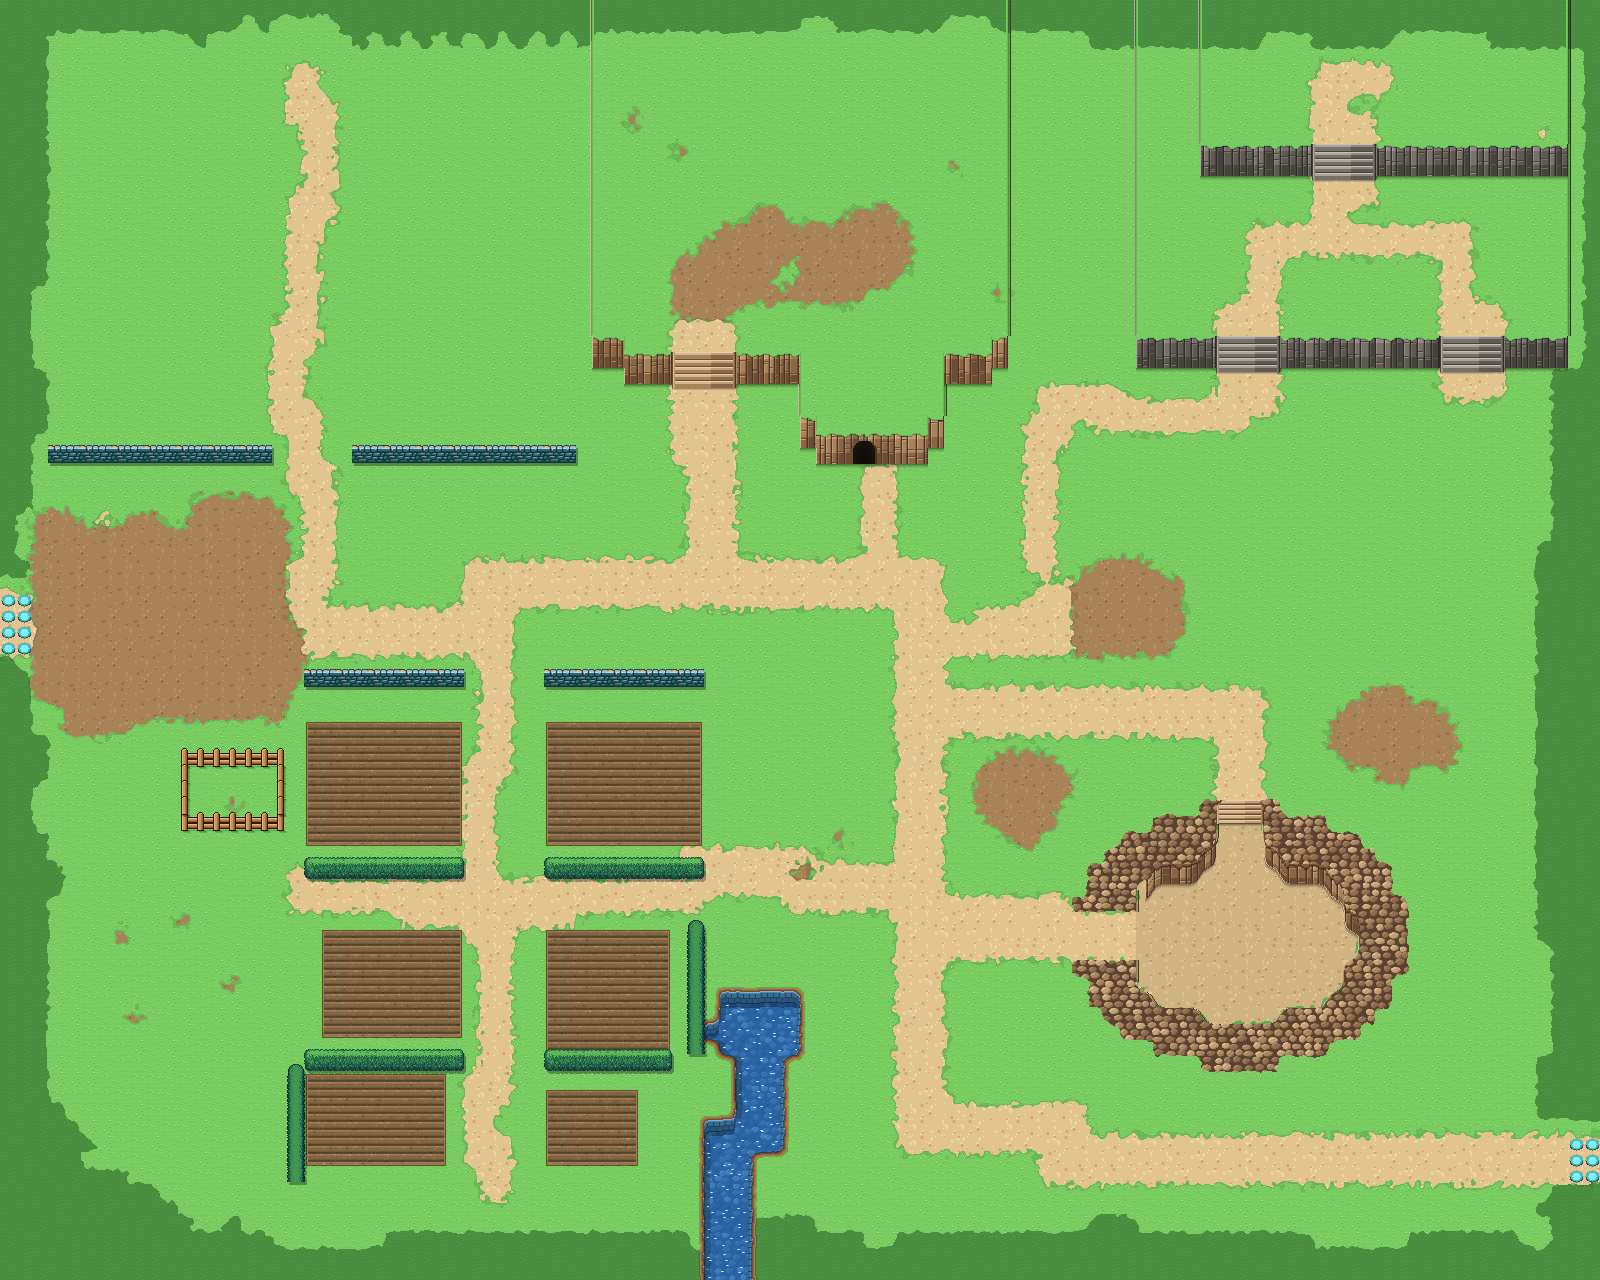
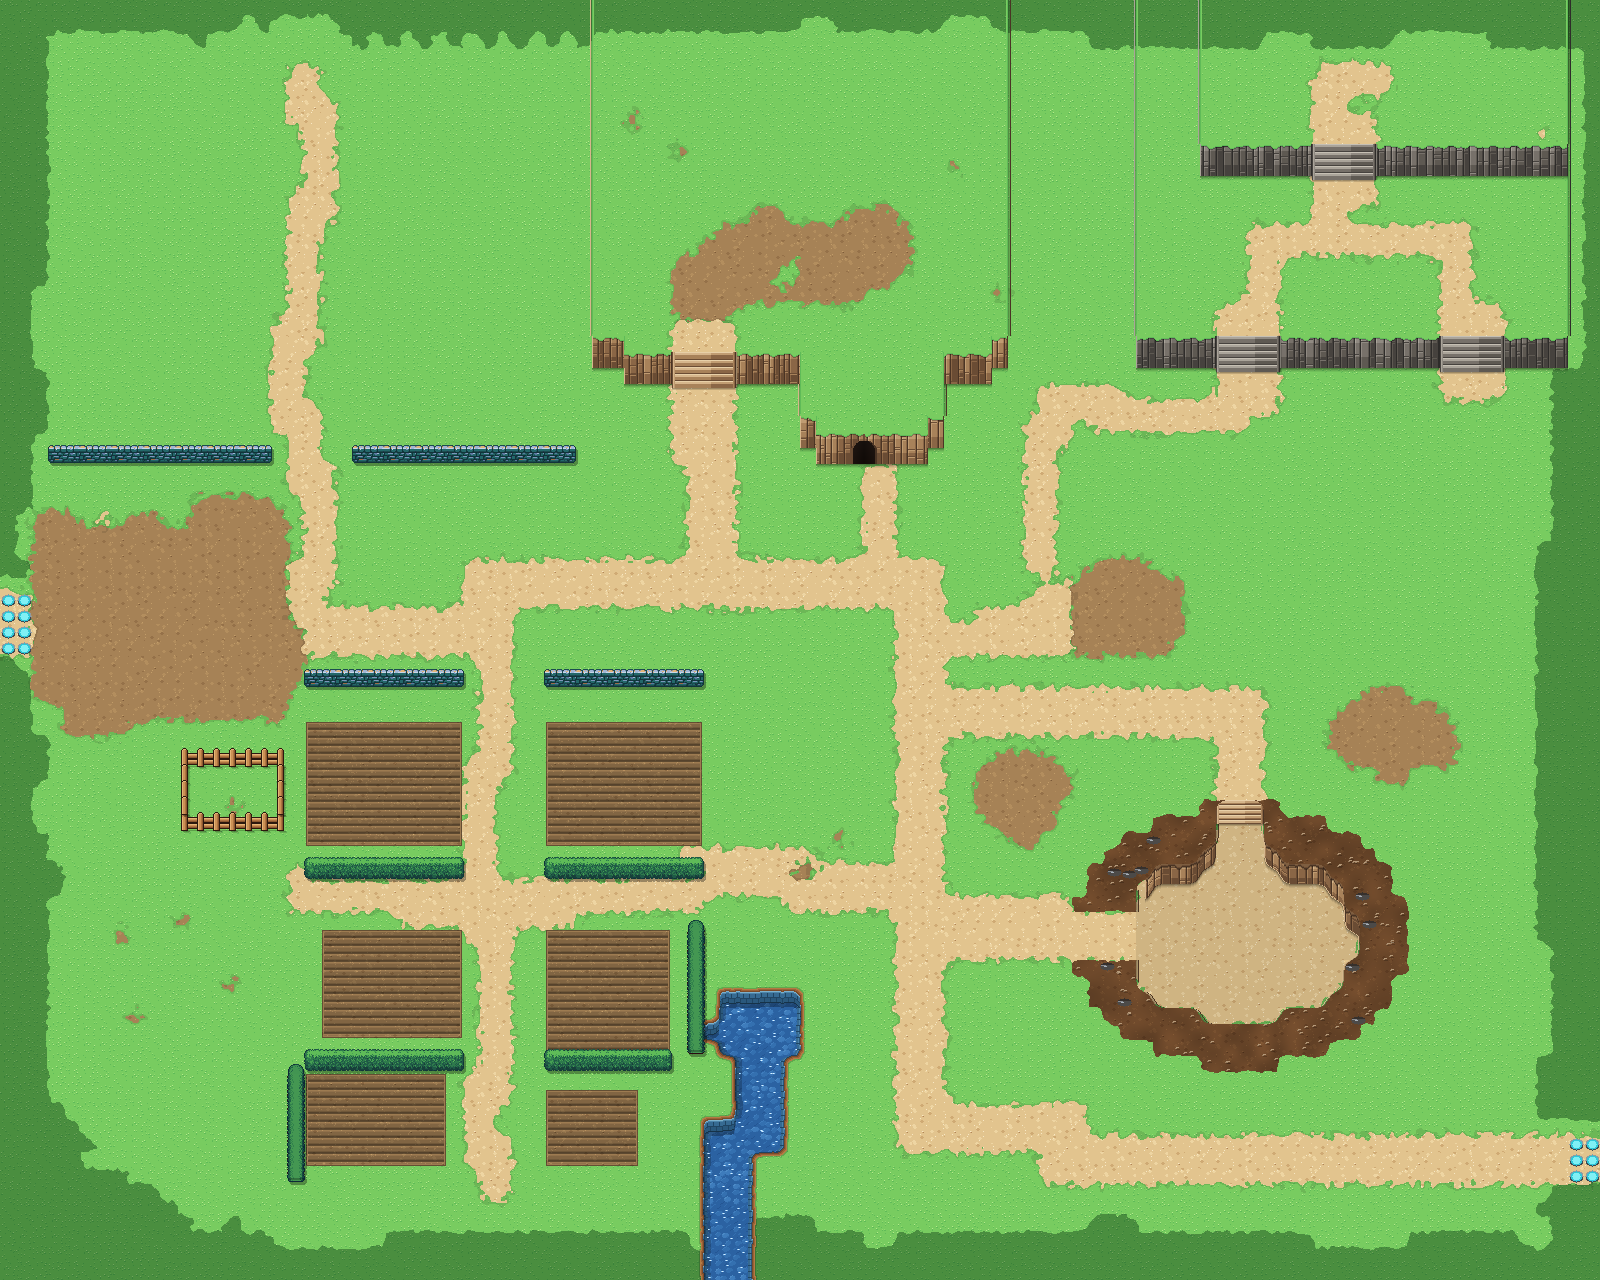
Karte 23: Hecken- und Mauerenden sauber abgeschlossen, Senkenrand als Schlamm
Claude-Session: https://claude.ai/code/session_01SaoYHKhnro4LFcPJqjaPsq

Changed region(s): [[0.6562, 0.625, 0.875, 0.8438]]

diff --git a/tools/karte23_bauen.py b/tools/karte23_bauen.py
@@ -172,6 +172,47 @@ def hecken(img, lay, cls):
             w = min(mauer.width, X1 - x)
             lage.alpha_composite(mauer.crop((0, 0, w, mauer.height)), (x, Y))
             x += w
+    # Enden sauber abschliessen: Schnittkanten bekommen die dunkle Kontur des Sprites, Ecken abgerundet
+    L = np.array(lage)
+    def kante_schliessen(x0_, x1_, y0_, y1_, seite):
+        sub = L[y0_:y1_, x0_:x1_]
+        al_ = sub[..., 3] > 0
+        if not al_.any():
+            return
+        hell = sub[..., :3].astype(int).sum(-1)
+        dunkel = sub[al_][:, :3][np.argmin(hell[al_])]
+        if seite in ('l', 'r'):
+            cols_ = [0, 1] if seite == 'l' else [sub.shape[1] - 1, sub.shape[1] - 2]
+            ys_ = np.nonzero(al_[:, cols_[0]])[0]
+            if not len(ys_):
+                return
+            ya, yb = ys_.min(), ys_.max()
+            for yy_ in (ya, ya + 1, yb - 1, yb):                      # runde Ecken
+                sub[yy_, cols_[0], 3] = 0
+            sub[ya, cols_[1], 3] = 0; sub[yb, cols_[1], 3] = 0
+            for yy_ in range(ya + 2, yb - 1):
+                sub[yy_, cols_[0], :3] = dunkel
+            for yy_ in (ya + 1, yb - 1):
+                sub[yy_, cols_[1], :3] = dunkel
+        else:                                                         # unten
+            xs_ = np.nonzero(al_[-1])[0] if al_[-1].any() else np.nonzero(al_.any(0))[0]
+            xa, xb = xs_.min(), xs_.max()
+            yb = sub.shape[0] - 1
+            for xx_ in (xa, xa + 1, xb - 1, xb):
+                sub[yb, xx_, 3] = 0
+            sub[yb - 1, xa, 3] = 0; sub[yb - 1, xb, 3] = 0
+            sub[yb, xa + 2:xb - 1, :3] = dunkel
+            sub[yb - 1, xa + 1, :3] = dunkel; sub[yb - 1, xb - 1, :3] = dunkel
+            sub[yb - 3:yb - 1, xa + 2:xb - 1, :3] = (sub[yb - 3:yb - 1, xa + 2:xb - 1, :3] * 0.75).astype(np.uint8)
+    for (x0, y0, x1, y1) in lay['maeuerchen']:
+        Y = (y0 + 1) * T - mauer.height - 1
+        kante_schliessen(x0 * T, x0 * T + 4, Y, Y + mauer.height, 'l')
+        kante_schliessen((x1 + 1) * T - 4, (x1 + 1) * T, Y, Y + mauer.height, 'r')
+    for (x0, y0, x1, y1) in lay['hecken']:
+        if y0 != y1:
+            X = x0 * T + (T - senk.width) // 2
+            kante_schliessen(X, X + senk.width, (y1 + 1) * T - 8, (y1 + 1) * T - 2, 'u')
+    lage = Image.fromarray(L)
     al = np.array(lage.getchannel('A')) > 0
     sch = np.zeros_like(al)
     sch[3:, 2:] = al[:-3, :-2]
@@ -207,6 +248,33 @@ def felsboden(a, m, seed=61):
             cx += 2 * rx + rnd.uniform(0.6, 1.8)
     mm = m[y0:y1, x0:x1]
     a[y0:y1, x0:x1][mm] = sub[mm].astype(np.uint8)
+
+
+def schlamm(a, m, erde, seed=63):
+    """Schlammiger Rand: Erdkacheln dunkler und satter (nass), weiche Flecken, glaenzende Nassstellen (Licht oben
+    links) und ein paar kleine Pfuetzen."""
+    Hh, W = m.shape
+    rs = np.random.RandomState(seed)
+    n = rs.rand(Hh // 16 + 2, W // 16 + 2)
+    fl = np.array(Image.fromarray((n * 255).astype(np.uint8)).resize((W, Hh), Image.BICUBIC)).astype(np.float32) / 255
+    basis = erde.astype(np.float32) * np.array([0.66, 0.56, 0.5]) * (0.86 + 0.22 * fl[..., None])
+    a[m] = np.clip(basis[m], 0, 255).astype(np.uint8)
+    ys, xs = np.nonzero(m)
+    for i in rs.choice(len(ys), max(1, len(ys) // 260), replace=False):   # Nassglanz: kleine helle Sicheln
+        y, x = ys[i], xs[i]
+        if y + 3 < Hh and x + 5 < W and m[y:y + 3, x:x + 5].all():
+            a[y, x + 1:x + 4] = H('#b59a7a'); a[y + 1, x:x + 2] = H('#9c8062')
+            a[y + 2, x + 1:x + 5] = (a[y + 2, x + 1:x + 5] * 0.8).astype(np.uint8)
+    for i in rs.choice(len(ys), max(1, len(ys) // 2500), replace=False):  # Pfuetzen
+        y, x = ys[i], xs[i]
+        yy, xx = np.mgrid[-4:5, -7:8]
+        e = (xx / 7.0) ** 2 + (yy / 4.0) ** 2 <= 1
+        if 4 <= y < Hh - 5 and 7 <= x < W - 8 and m[y - 4:y + 5, x - 7:x + 8][e].all():
+            sub = a[y - 4:y + 5, x - 7:x + 8]
+            sub[e] = H('#4c4a48')
+            sub[e & (yy <= -2)] = H('#36302c')
+            sub[e & (yy == -1) & (xx < -1)] = H('#8a8e94')
+            sub[e & (yy == 0) & (xx > -4) & (xx < 0)] = H('#a8b0b8')
 
 
 def nach_oben(hoch, bis=4 * T):
@@ -305,7 +373,7 @@ def bauen(frame=None, speichern=True):
     if zug_o:
         k4.treppe(a, tz0 * T, (tz1 + 1) * T, yt, 's', 20, 'erde', sand)
     rm = weich(zell_maske(cls, 'kc', cols, rows), 4, 0.35, 12) & ~wand & ~cm & ~maske_aus(cls, 'wt', cols, rows)   # Felsrand: steiniger Erdboden bis an die Senke
-    felsboden(a, rm)
+    schlamm(a, rm, erde)
     # ---------------- Mauerchen, Hecken
     # ---------------- Wasser (Bach laeuft unten aus der Karte)
     import wasser_vertieft
